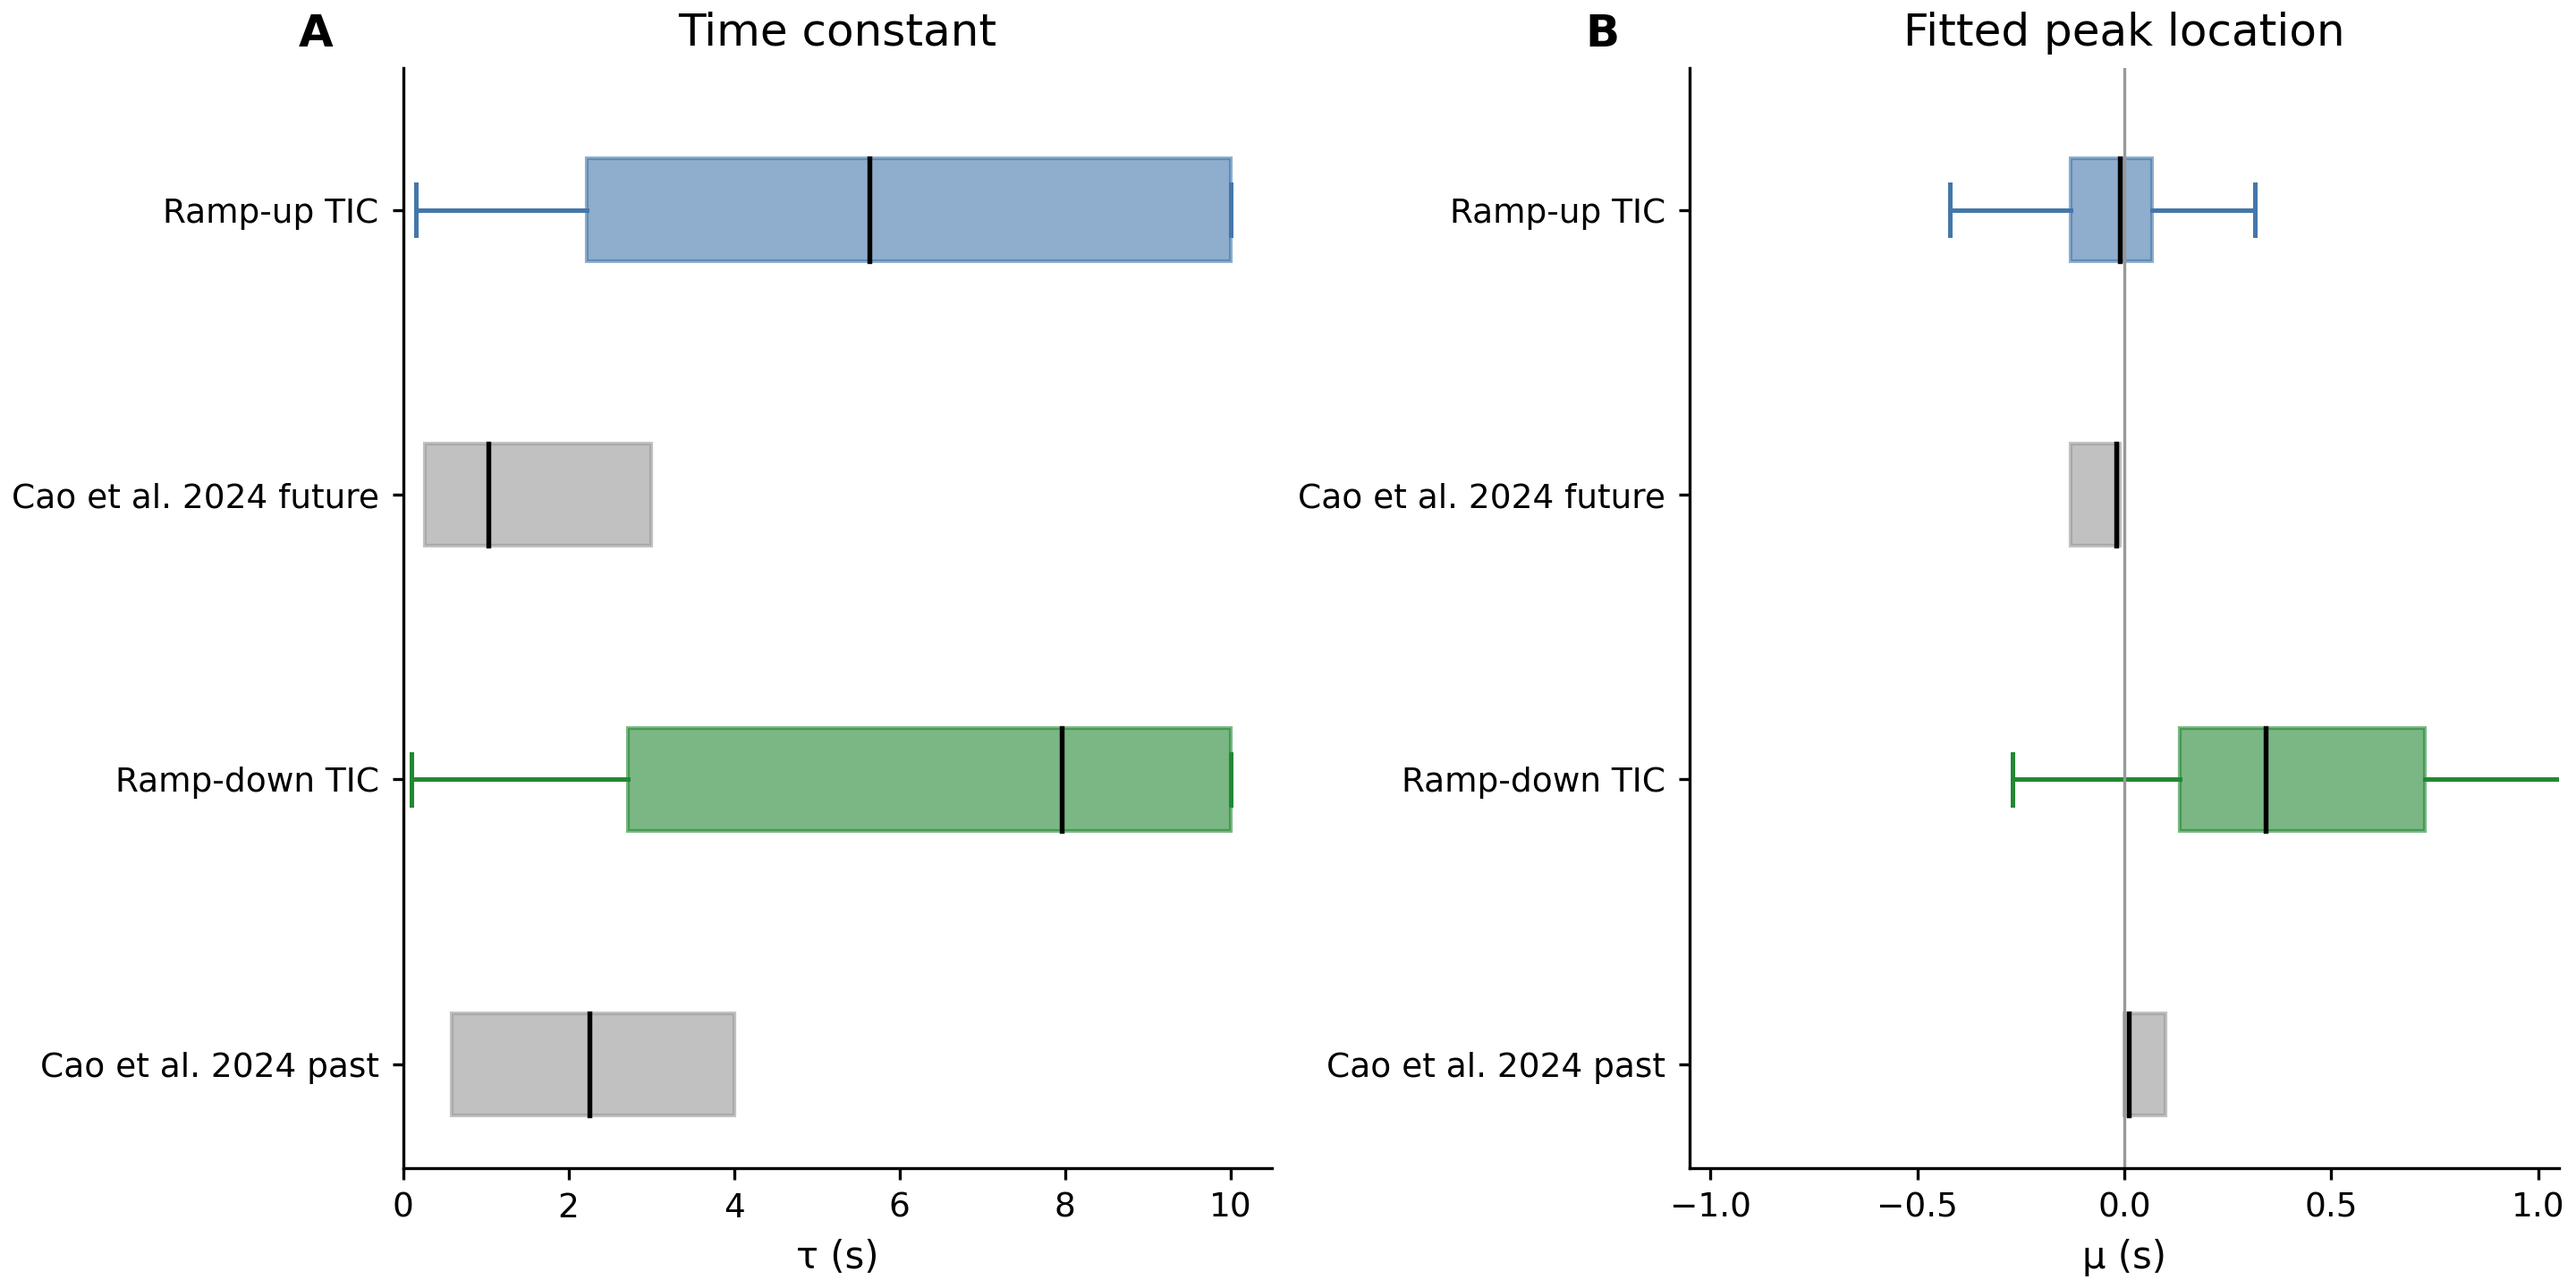
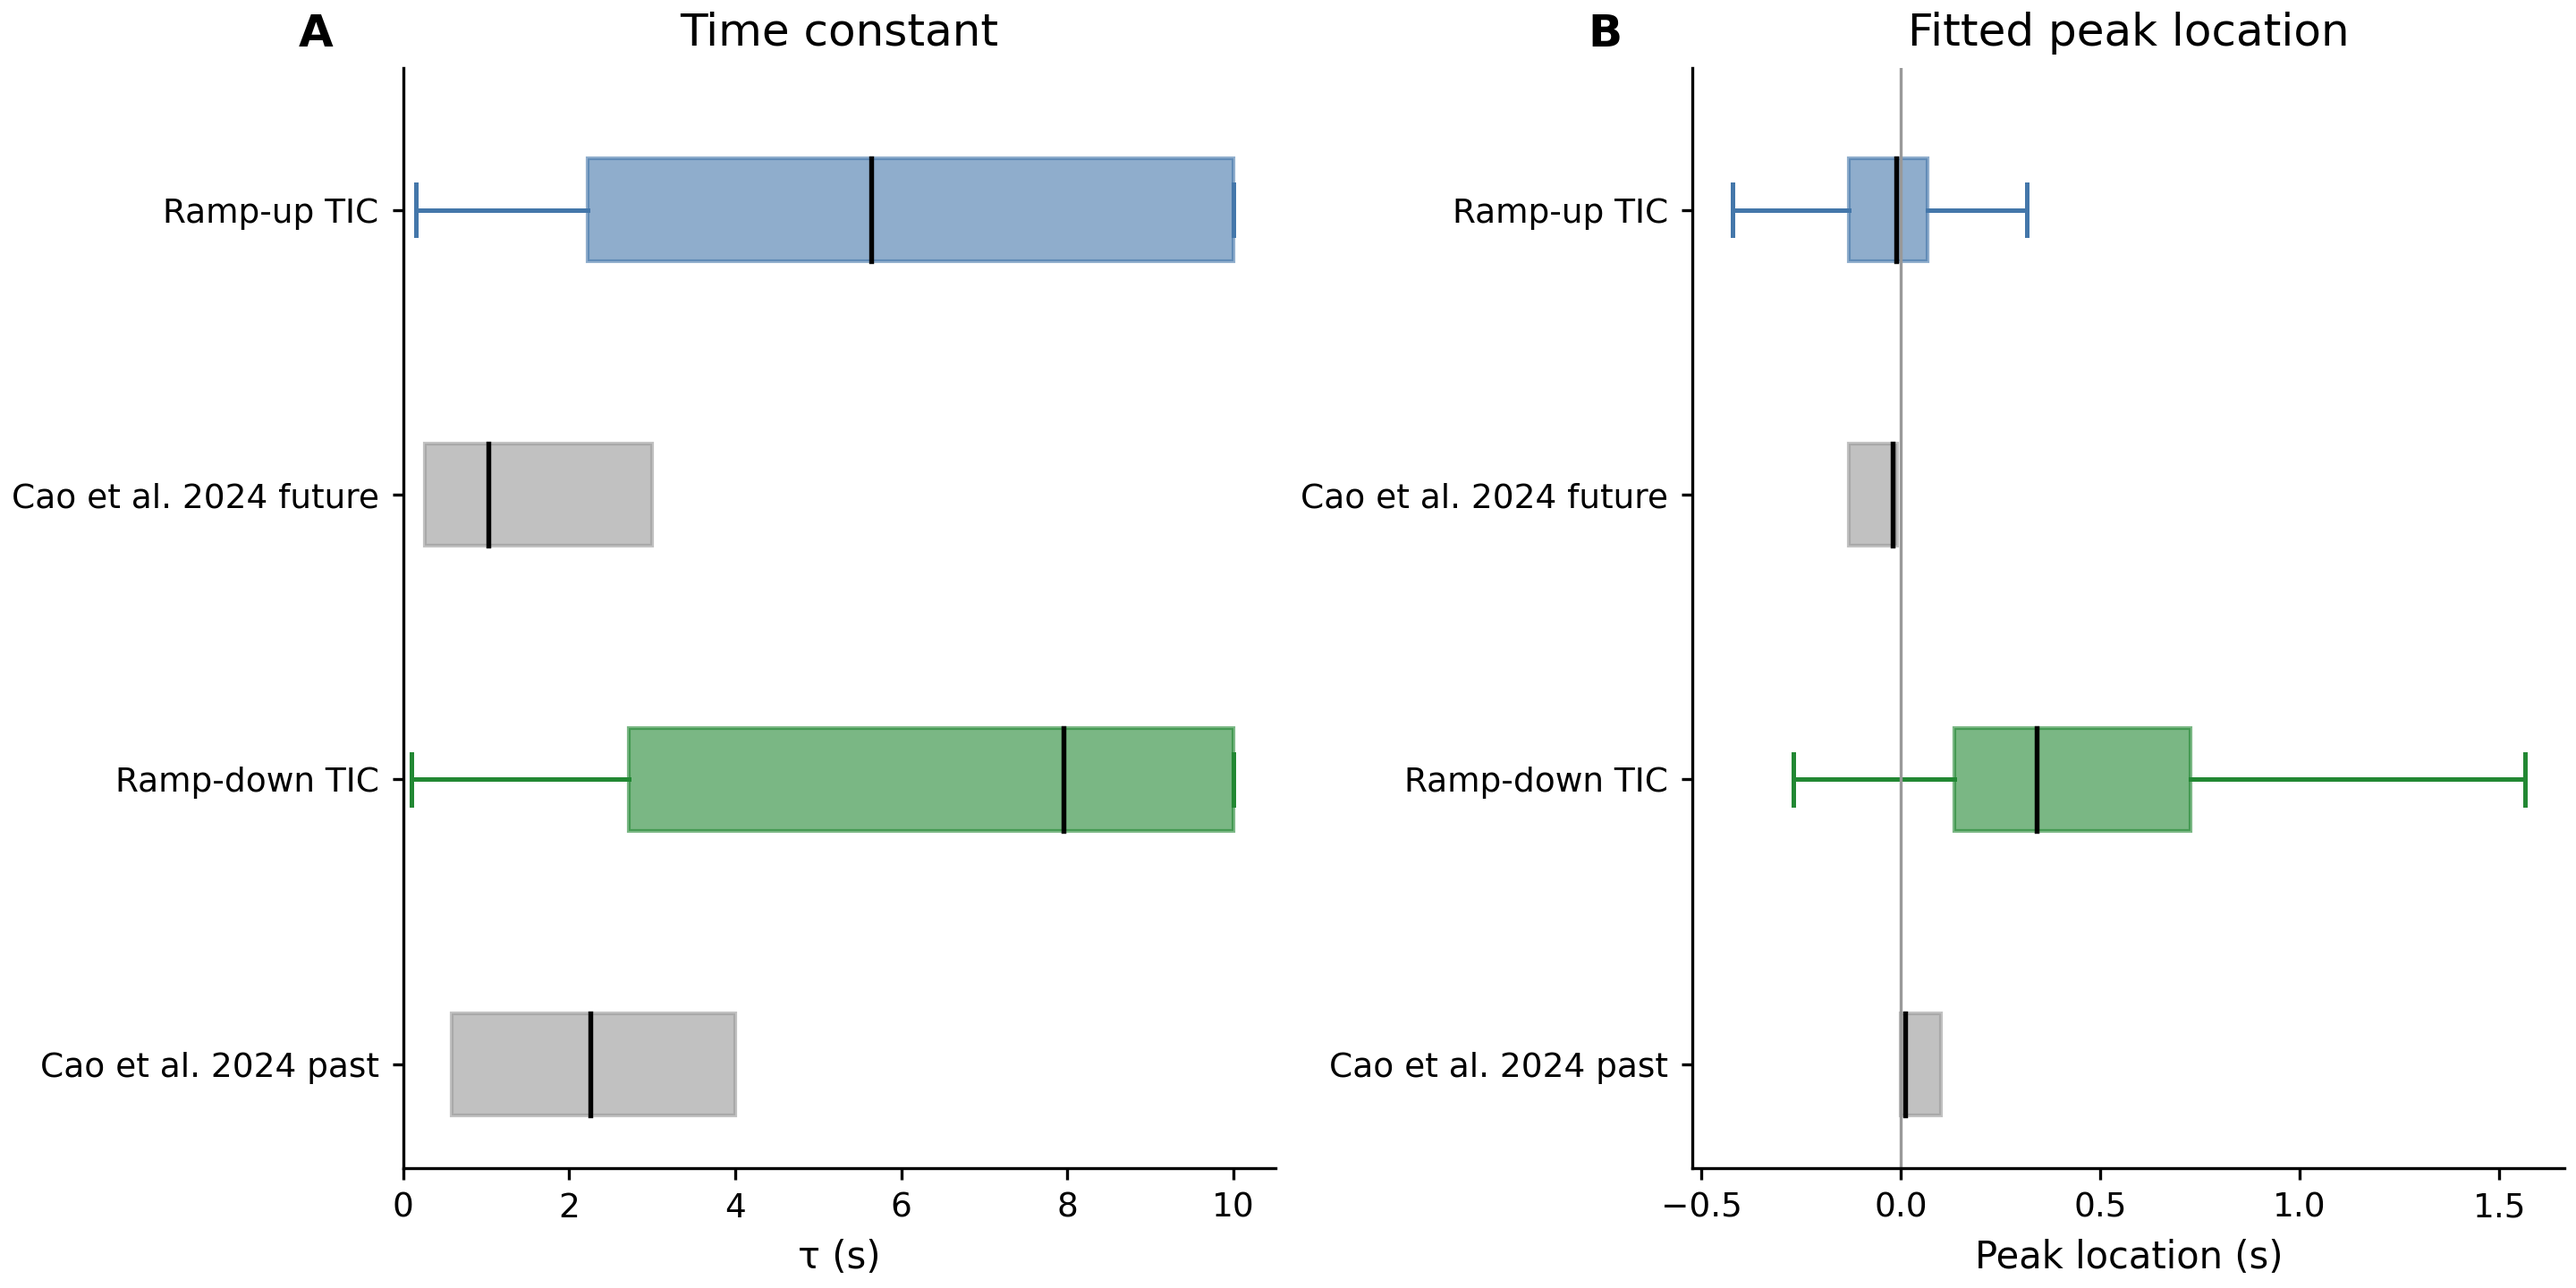
correct final figure spacing and captions

diff --git a/analysis/summary_figure.py b/analysis/summary_figure.py
@@ -273,7 +273,7 @@ def make_figure(table, fits, suffix='', wider=False):
             annotations.append(dict(panel=panel, group=label, measure=title, p=float(row['p for median']), text=text))
         ax.set(title=title, ylabel='Cells (%)', ylim=(0, 114), yticks=np.arange(0, 101, 20),
                xticks=range(len(LABELS)), xticklabels=[f'{label}\n(n = {int(selected.loc[label, "n cells"])})' for label in LABELS])
-        ax.legend(frameon=False, loc='lower center', bbox_to_anchor=(.5, 1.04), ncol=3)
+        ax.legend(frameon=False, loc='lower center', bbox_to_anchor=(.5, 1.10), ncol=3)
     for ax, panel, measure, title, ylabel in zip(axes[2:], ['C', 'D', 'E'],
             ['peak', 'width', 'ramp rate'], ['Peak location', 'Gaussian width', 'Time constant'],
             ['Peak location (s)', 'Gaussian width, \u03c3 (s)', 'Time constant, \u03c4 (s)']):
@@ -327,8 +327,8 @@ def make_figure(table, fits, suffix='', wider=False):
     for ax, letter in zip(axes, 'ABCDE'):
         ax.text(-.12, 1.05, letter, transform=ax.transAxes, fontsize=12, fontweight='bold', ha='right')
     fig.subplots_adjust(left=.065, right=.98, bottom=.09, top=.84)
-    fig.savefig(FIGURES / f'fig_summary{suffix}.png', dpi=200)
-    fig.savefig(FIGURES / f'fig_summary{suffix}.pdf')
+    fig.savefig(FIGURES / f'fig_summary{suffix}.png', dpi=200, bbox_inches='tight', pad_inches=.08)
+    fig.savefig(FIGURES / f'fig_summary{suffix}.pdf', bbox_inches='tight', pad_inches=.08)
     plt.close(fig)
     return annotations
 

diff --git a/analysis/paper_parameter_comparison.py b/analysis/paper_parameter_comparison.py
@@ -222,7 +222,7 @@ def make_figure(parameters):
     axis.axvline(0, color='#999999', linewidth=.8)
     axis.set(yticks=[0, 1, 2, 3],
              yticklabels=[row[0]['label'] for row in peak_rows],
-             xlabel='μ (s)', xlim=(-1.05, 1.05))
+             xlabel='Peak location (s)')
     format_axis(axis)
 
     for label, axis in zip('AB', axes):

diff --git a/figures/wider_evidence/captions.md b/figures/wider_evidence/captions.md
@@ -1,10 +1,10 @@
 # Figure captions
 
 ## parameter_distributions
-Parameter distributions for Ramp-down TICs (n = 404), Ramp-up TICs (n = 479), and Time cells (n = 1177). Panels A and B show fitted Gaussian width, σ, and time constant, τ, respectively. The histograms include all cells, including bound cells. Bound values are σ = 4 s and τ = 10 s and are assigned to the final ≥ bin. The accompanying p-values in `wider_parameter_summary.md` are two-sided paired Wilcoxon signed-rank tests on session-level medians comparing each TIC group with Time cells, with sessions as the unit and n = 15 sessions. Peak reference conventions used in the companion fitted-parameter summaries are last-lick reference for Ramp-down TICs and Time cells and time before the next lick for Ramp-up TICs, with negative values before the next lick.
+The fitting window runs from 1 s before the last lick to the first lick of the next trial. Parameter distributions for Ramp-down TICs (n = 404), Ramp-up TICs (n = 479), and Time cells (n = 1177). Panels A and B show fitted Gaussian width, σ, and time constant, τ, respectively. The histograms include all cells, including bound cells. Bound values are σ = 4 s and τ = 10 s and are assigned to the final ≥ bin. The accompanying p-values in `wider_parameter_summary.md` are two-sided paired Wilcoxon signed-rank tests on session-level medians comparing each TIC group with Time cells, with sessions as the unit and n = 15 sessions.
 
 ## receptive_field_model_summary
-Summary of model decisions and fitted parameters for Ramp-down TICs (n = 404), Ramp-up TICs (n = 479), and Time cells (n = 1177). Every p-value in panels A and B is a two-sided Wilcoxon signed-rank test on session-level decision contrasts, with sessions as the unit and n = 15 sessions. The p-value in panel C tests the Ramp-down TIC versus Time-cell peak-location difference with the same two-sided paired session-level test, n = 15 sessions. The Ramp-up TIC versus Time-cell peak comparison is omitted because the two peak references differ. The p-values in panels D and E test each TIC group against Time cells using two-sided paired Wilcoxon signed-rank tests on session-level medians, with sessions as the unit and n = 15 sessions. Bound cells are included in the plotted medians and tests and marked with crosses. Bound values are σ = 4 s and τ = 10 s. Ramp-down TIC and Time-cell peaks are referenced to the last lick. Ramp-up TIC peaks are reported as time before the next lick, with negative values before the next lick.
+The fitting window runs from 1 s before the last lick to the first lick of the next trial. Summary of model decisions and fitted parameters for Ramp-down TICs (n = 404), Ramp-up TICs (n = 479), and Time cells (n = 1177). Panels A and B show per-cell held-out decisions. Each p-value is a two-sided Wilcoxon signed-rank test of session medians of the held-out log-likelihood contrast against zero (Gaussian minus exponential in A; curved minus linear in B), n = 15 sessions. The p-value in panel C tests the Ramp-down TIC versus Time-cell peak-location difference with the same two-sided paired session-level test, n = 15 sessions. The Ramp-up TIC versus Time-cell peak comparison is omitted because the two peak references differ. The p-values in panels D and E test each TIC group against Time cells using two-sided paired Wilcoxon signed-rank tests on session-level medians, with sessions as the unit and n = 15 sessions. Bound cells are included in the plotted medians and tests and marked with crosses. Bound values are σ = 4 s and τ = 10 s. Ramp-down TIC and Time-cell peaks are referenced to the last lick. Ramp-up TIC peaks are reported as time before the next lick, with negative values before the next lick.
 
 ## published_parameter_comparison
-Comparison of fitted parameters for Ramp-down TICs (n = 404) and Ramp-up TICs (n = 479) with published values. Fitted boxes include all cells, including bound cells. Bound values are σ = 4 s and τ = 10 s and are marked with crosses in the summary boxplots. The p-values in `paper_parameter_comparison.md` test each fitted TIC group against the corresponding Cao et al. 2024 published median using two-sided Wilcoxon signed-rank tests on session-level medians, with sessions as the unit and n = 15 sessions. Cao et al. 2024 boxes show published medians and interquartile ranges. Ramp-down TIC peaks are referenced to the last lick. Ramp-up TIC peaks are reported as time before the next lick, with negative values before the next lick.
+The fitting window runs from 1 s before the last lick to the first lick of the next trial. Comparison of fitted parameters for Ramp-down TICs (n = 404) and Ramp-up TICs (n = 479) with published values. TIC boxes show the median and IQR with whiskers at 1.5 × IQR, with bound cells included at τ = 10 s. The p-values in `paper_parameter_comparison.md` are two-sided one-sample Wilcoxon signed-rank tests of session medians against the corresponding published median, treated as fixed, n = 15 sessions. Cao et al. 2024 boxes show published medians and IQRs only. Cao et al. 2024 excluded past cells with τ > 9 s (16/331). Ramp-down TIC peaks are referenced to the last lick. Ramp-up TIC peaks are reported as time before the next lick, with negative values before the next lick.
